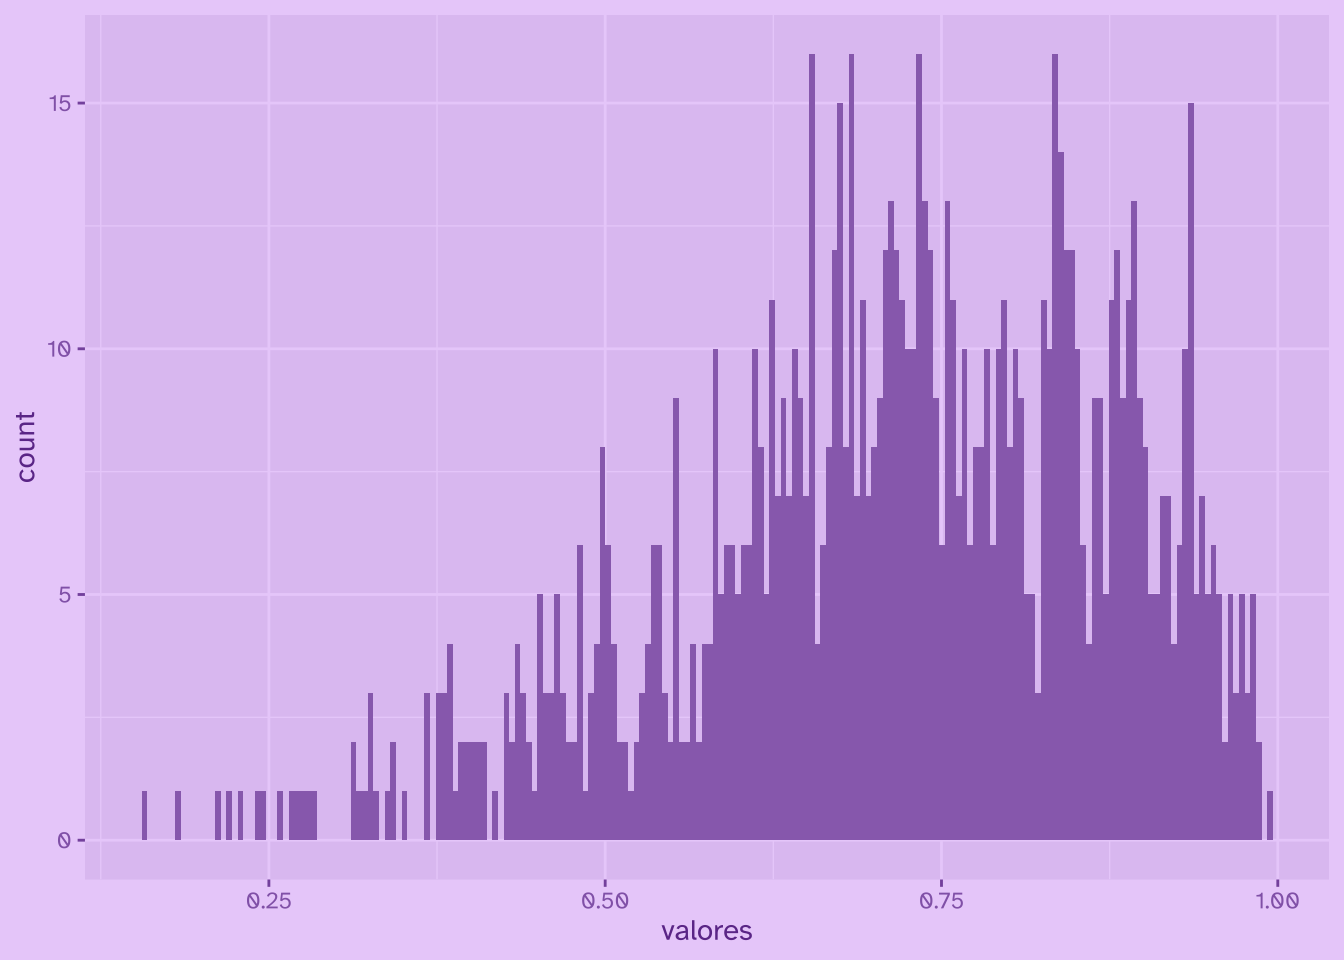
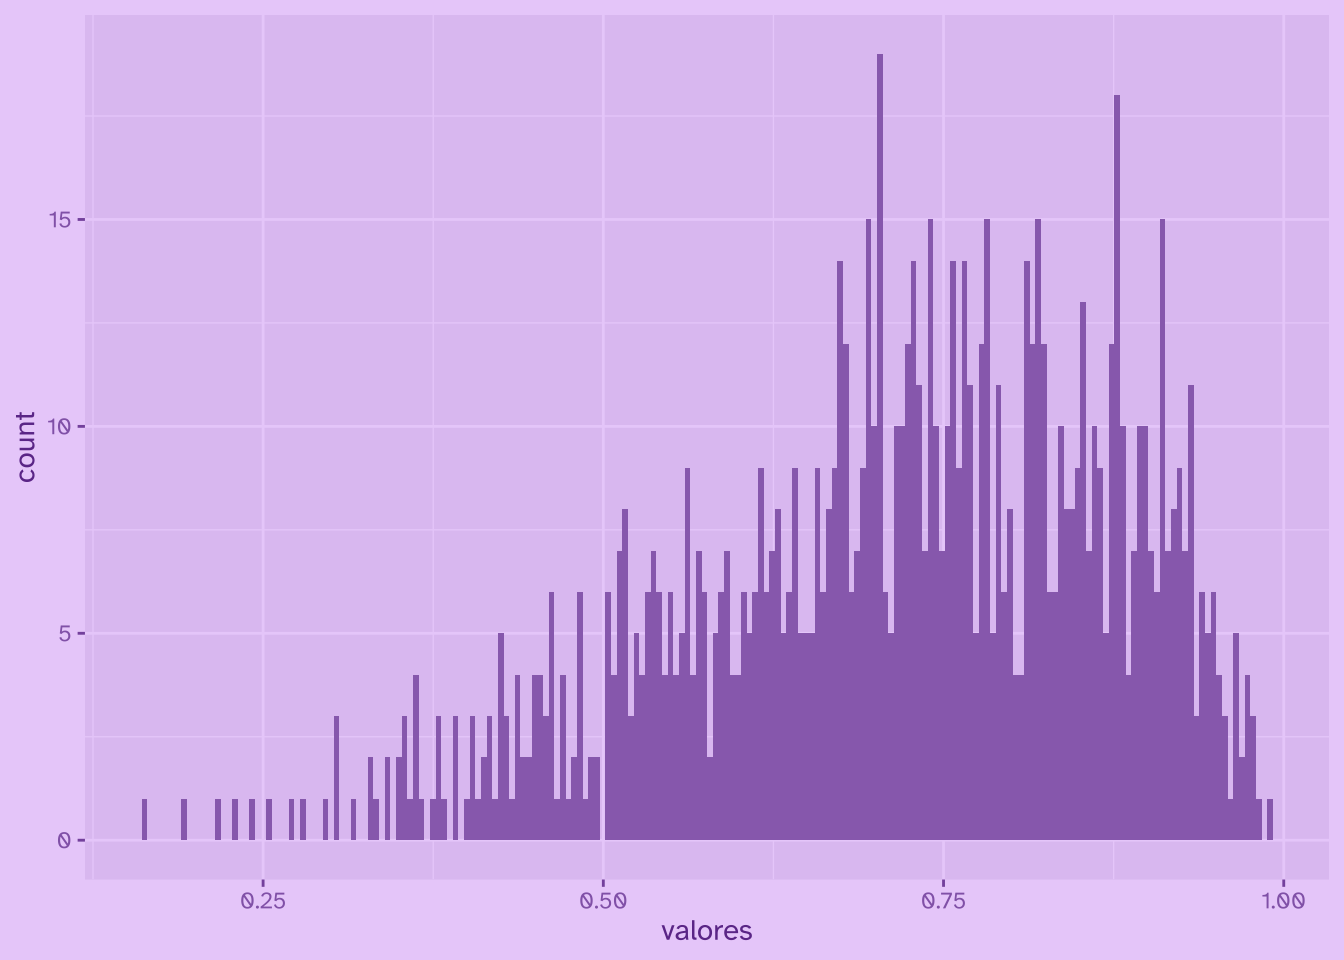
versión en inglés

diff --git a/content/blog/linea_temporal_r/index.md b/content/blog/linea_temporal_r/index.md
@@ -342,6 +342,10 @@ El resultado es la siguiente visualización en línea de tiempo:
 
 {{< imagen_tamaño "r_timeline.jpg" "100%" >}}
 
+*There's also an english version available:*
+
+{{< imagen_tamaño "r_timeline_en.jpg" "100%" >}}
+
 Varias cosas me resultaron interesantes, como la varianza en el tiempo que dura cada versión mayor de R, la tardía introducción de RStudio, pero por sobre todo el hecho de que `{dplyr}`, un paquete que me parece fundamental, fue introducido *después* que `{ggplot2}` y `{shiny}`!
 
 Puedes encontrar el [código completo en este repositorio.](https://github.com/bastianolea/linea_temporal_r)

diff --git a/content/blog/desarrollo_paquetes/index.md b/content/blog/desarrollo_paquetes/index.md
@@ -2,8 +2,7 @@
 title: Desarrollo de paquetes con R
 subtitle: Crea tus propias herramientas para trabajar con datos en R y compártelas!
 author: Bastián Olea Herrera
-date: '2026-08-26'
-draft: true
+date: '2026-08-25'
 categories:
   - Tutoriales
 tags:
